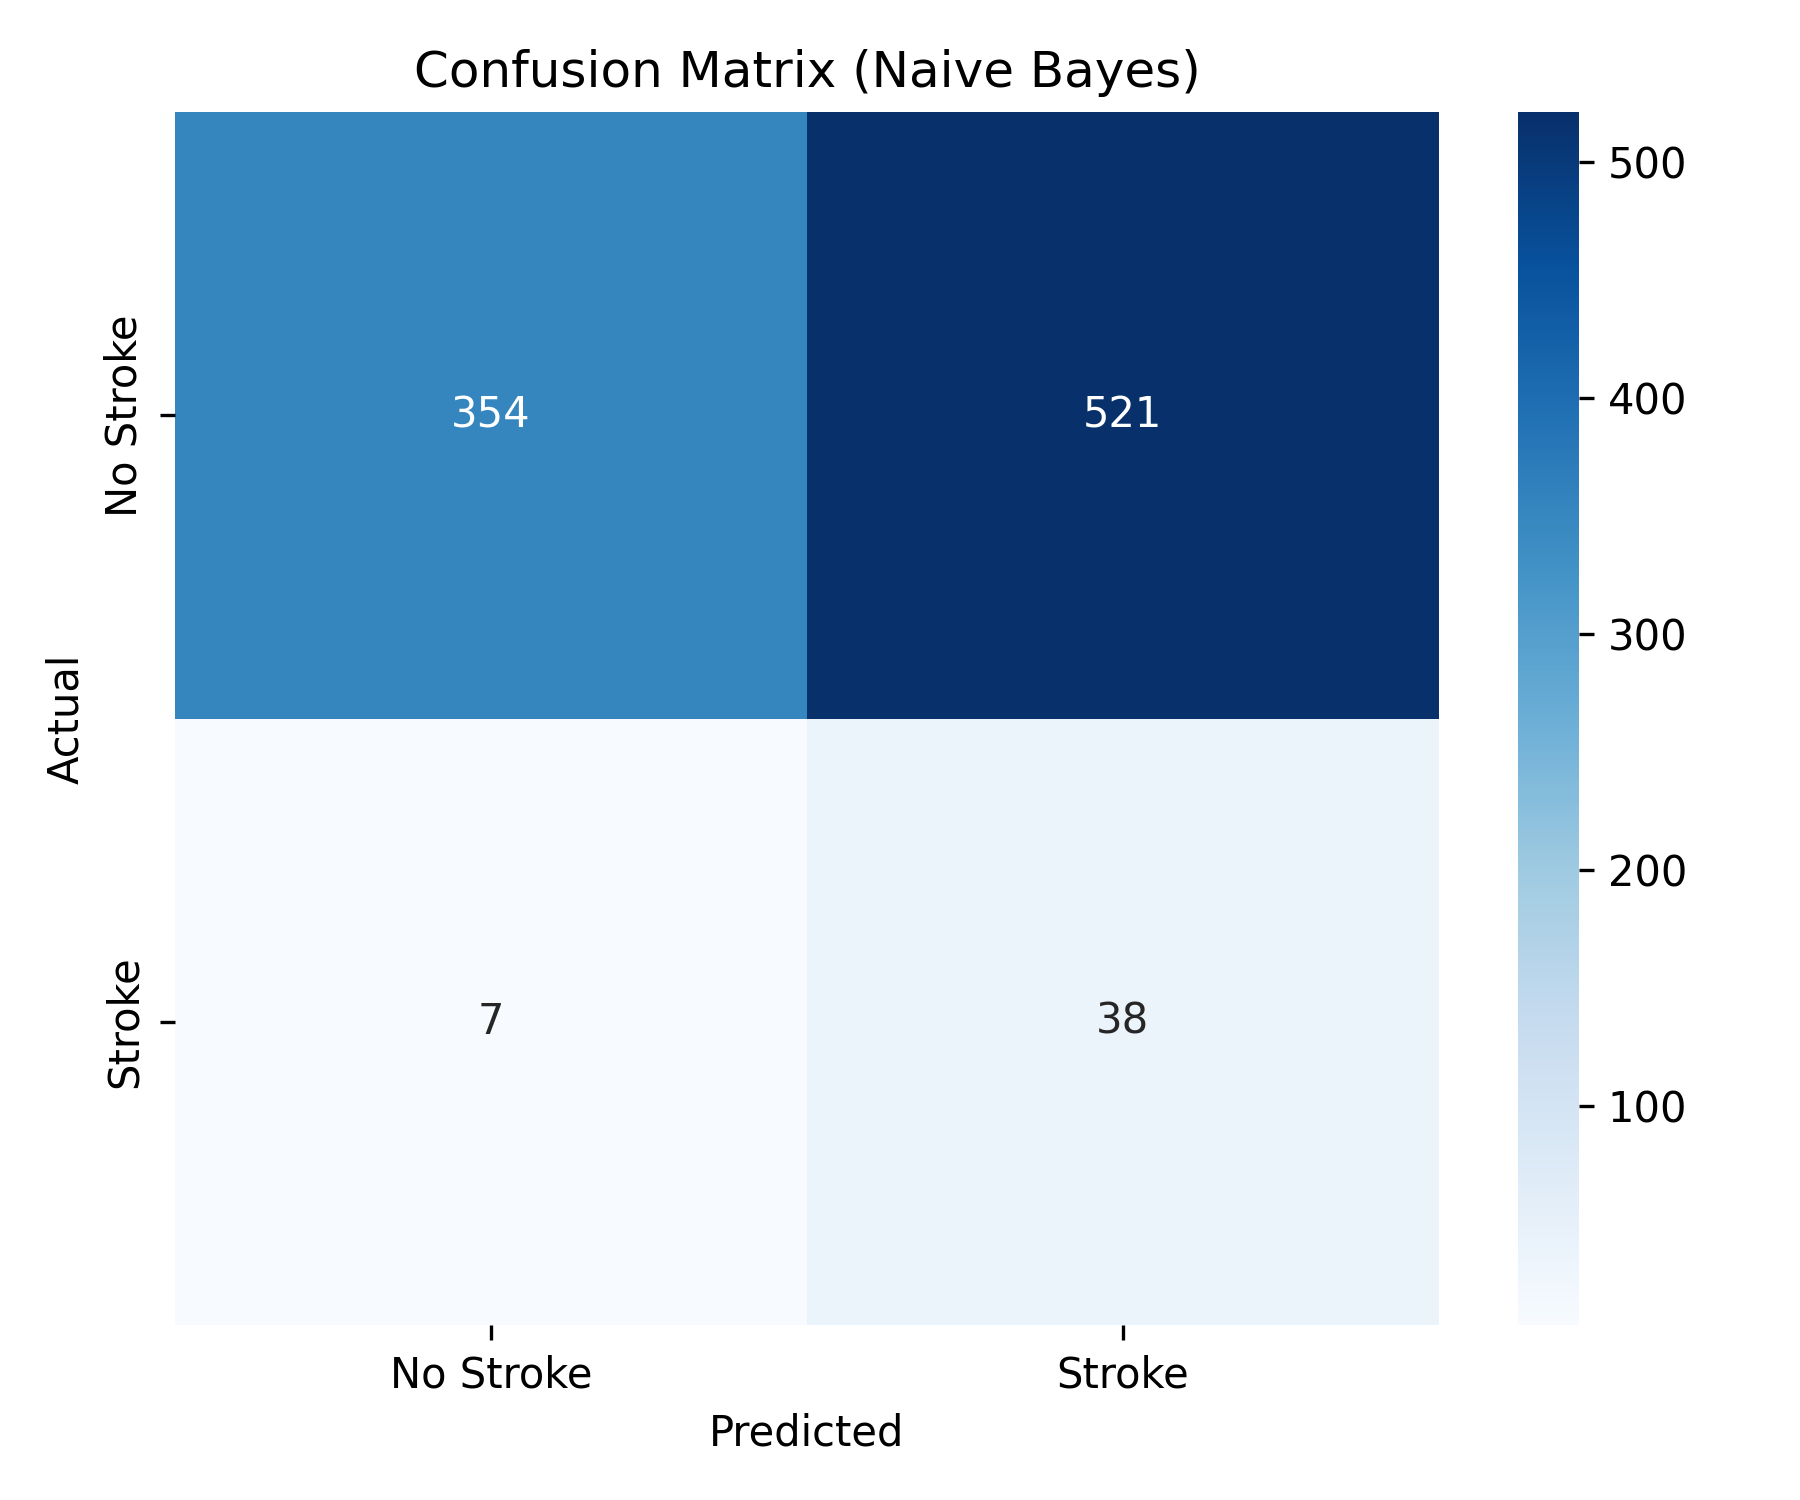
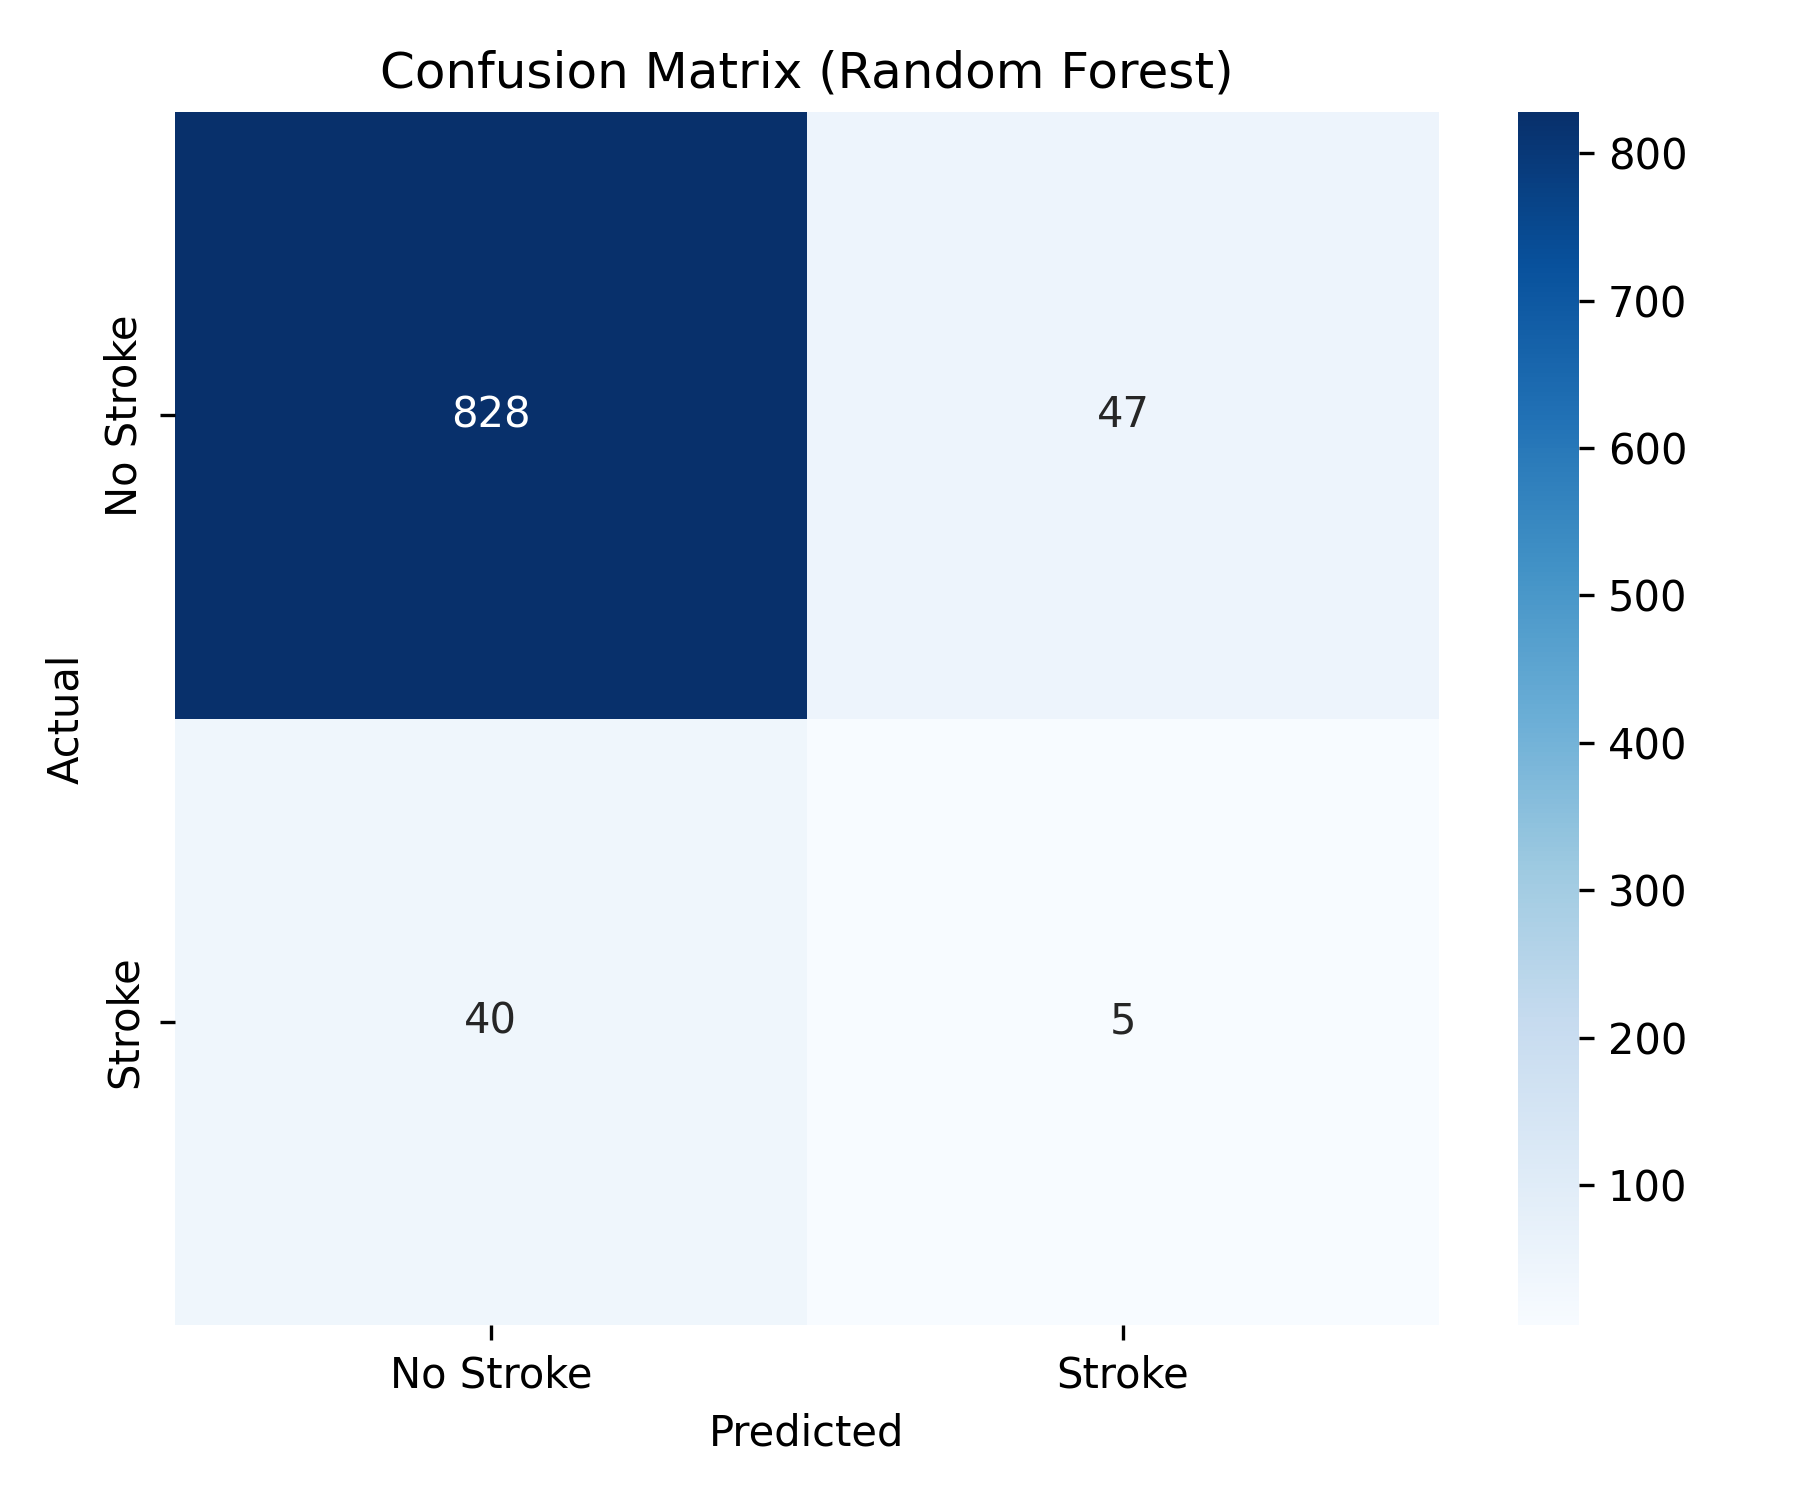
Added: comparison and evaluation for random_forest and decision tree in model_evaluator.py

diff --git a/notebooks/model_evaluator.py b/notebooks/model_evaluator.py
@@ -12,9 +12,6 @@
 # Identify the best-performing model
 # Save results to outputs/confusion_matrix.png
 # Save results to outputs/model_comparison.csv
-
-# Outputs:
-# outputs/naive_bayes_results.txt
 # # ======================================
 from pathlib import Path
 import pandas as pd
@@ -35,7 +32,9 @@ BASE_DIR = Path(__file__).resolve().parent.parent
 DATA_DIR = BASE_DIR / "data" / "processed"
 
 NB_RESULTS = BASE_DIR / "outputs" / "naive_bayes" / "naive_bayes_results.csv"
-SVM_RESULTS = BASE_DIR / "outputs" / "svm_results.txt"
+SVM_RESULTS = BASE_DIR / "outputs" /"support_vector_machine"/ "svm_results.csv"
+DT_RESULTS = BASE_DIR / "outputs" / "decision_tree" / "decision_tree_metrics.csv"
+RF_RESULTS = BASE_DIR / "outputs" / "random_forest" / "random_forest_metrics.csv"
 
 OUTPUTS_DIR = BASE_DIR / "outputs"
 OUTPUTS_DIR.mkdir(parents=True, exist_ok=True)
@@ -46,25 +45,35 @@ if not NB_RESULTS.exists():
 if not SVM_RESULTS.exists():
     raise FileNotFoundError(f"SVM results not found at {SVM_RESULTS}")
 
+if not DT_RESULTS.exists():
+    raise FileNotFoundError(f"Decision Tree results not found at {DT_RESULTS}")
+
+if not RF_RESULTS.exists():
+    raise FileNotFoundError(f"Random Forest results not found at {RF_RESULTS}")
 
 # ==============================
 # EXTRACT NAIVE BAYES METRICS
 # ==============================
 def extract_nb_metrics():
     df = pd.read_csv(NB_RESULTS)
+    print("NB Columns:", df.columns.tolist())
     df.columns = df.columns.str.strip()
+    print("NB Columns after strip:", df.columns.tolist())
     df["Metric"] = df["Metric"].str.strip().str.lower()
 
     def get_val(metric):
         row = df[df["Metric"] == metric]
-        return float(row["Test Set"].values[0]) if not row.empty else 0.0
 
+        if row.empty:
+            print(f"WARNING: metric '{metric}' not found. Available: {df['Metric'].tolist()}")
+            return 0.0
+        return float(row["Test_Set"].values[0])
     return {
         "model": "Naive Bayes",
         "accuracy": get_val("accuracy"),
         "precision": get_val("precision"),
         "recall": get_val("recall"),
-        "f1_score": get_val("f1"),
+        "f1_score": get_val("f1-score"),
     }
 
 
@@ -72,22 +81,73 @@ def extract_nb_metrics():
 # EXTRACT SVM METRICS
 # ==============================
 def extract_svm_metrics():
-    with open(SVM_RESULTS, "r") as f:
-        text = f.read()
+    df = pd.read_csv(SVM_RESULTS)
+    df.columns = df.columns.str.strip()
+    df["Metric"] = df["Metric"].str.strip().str.lower()
 
-    acc = float(re.search(r"Accuracy:\s+([\d.]+)", text).group(1))
-    precision = float(re.search(r"Precision:\s+([\d.]+)", text).group(1))
-    recall = float(re.search(r"Recall:\s+([\d.]+)", text).group(1))
-    f1 = float(re.search(r"F1-score:\s+([\d.]+)", text).group(1))
+    def get_val(metric):
+        row = df[df["Metric"] == metric]
+        return float(row["Test_Set"].values[0]) if not row.empty else 0.0
 
     return {
         "model": "SVM",
-        "accuracy": acc,
-        "precision": precision,
-        "recall": recall,
-        "f1_score": f1
+        "accuracy": get_val("accuracy"),
+        "precision": get_val("precision"),
+        "recall": get_val("recall"),
+        "f1_score": get_val("f1-score"),
     }
 
+# ==============================
+# EXTRACT DECISION TREE METRICS
+# ==============================
+def extract_dt_metrics():
+    df = pd.read_csv(DT_RESULTS)
+    df.columns = df.columns.str.strip().str.lower()
+    df["dataset_split"] = df["dataset_split"].str.strip().str.lower()
+
+    def get_val(split, metric):
+        row = df[df["dataset_split"] == split]
+        if row.empty:
+            print(f"WARNING: split '{split}' not found. Available: {df['dataset_split'].tolist()}")
+            return 0.0
+        if metric not in df.columns:
+            print(f"WARNING: metric '{metric}' not found. Available: {df.columns.tolist()}")
+            return 0.0
+        return float(row[metric].values[0])
+
+    return {
+        "model": "Decision Tree",
+        "accuracy": get_val("test", "accuracy"),
+        "precision": get_val("test", "precision"),
+        "recall": get_val("test", "recall"),
+        "f1_score": get_val("test", "f1_score"),
+    }
+
+# ==============================
+# EXTRACT RANDOM FOREST METRICS
+# ==============================
+def extract_rf_metrics():
+    df = pd.read_csv(RF_RESULTS)
+    df.columns = df.columns.str.strip().str.lower()
+    df["dataset_split"] = df["dataset_split"].str.strip().str.lower()
+
+    def get_val(split, metric):
+        row = df[df["dataset_split"] == split]
+        if row.empty:
+            print(f"WARNING: split '{split}' not found. Available: {df['dataset_split'].tolist()}")
+            return 0.0
+        if metric not in df.columns:
+            print(f"WARNING: metric '{metric}' not found. Available: {df.columns.tolist()}")
+            return 0.0
+        return float(row[metric].values[0])
+
+    return {
+        "model": "Random Forest",
+        "accuracy": get_val("test", "accuracy"),
+        "precision": get_val("test", "precision"),
+        "recall": get_val("test", "recall"),
+        "f1_score": get_val("test", "f1_score"),
+    }
 
 # ==============================
 # LOAD DATA (for confusion matrix)
@@ -106,18 +166,15 @@ def load_data():
 # RECREATE MODELS (for CM only)
 # ==============================
 def get_predictions(model_name, X_train, X_test, y_train):
-    if model_name == "Naive Bayes":
-        smote = SMOTE(random_state=42)
-        X_res, y_res = smote.fit_resample(X_train, y_train)
+    smote = SMOTE(random_state=42)
+    X_res, y_res = smote.fit_resample(X_train, y_train)
 
+    if model_name == "Naive Bayes":
         model = GaussianNB()
         model.fit(X_res, y_res)
         return model.predict(X_test)
 
     elif model_name == "SVM":
-        smote = SMOTE(random_state=42)
-        X_res, y_res = smote.fit_resample(X_train, y_train)
-
         scaler = StandardScaler()
         X_res_scaled = scaler.fit_transform(X_res)
         X_test_scaled = scaler.transform(X_test)
@@ -125,6 +182,23 @@ def get_predictions(model_name, X_train, X_test, y_train):
         model = SVC(probability=True, random_state=42)
         model.fit(X_res_scaled, y_res)
         return model.predict(X_test_scaled)
+
+    elif model_name == "Random Forest":
+        from sklearn.ensemble import RandomForestClassifier
+
+        model = RandomForestClassifier(random_state=42)
+        model.fit(X_res, y_res)
+        return model.predict(X_test)
+
+    elif model_name == "Decision Tree":
+        from sklearn.tree import DecisionTreeClassifier
+
+        model = DecisionTreeClassifier(random_state=42)
+        model.fit(X_res, y_res)
+        return model.predict(X_test)
+
+    else:
+        raise ValueError(f"Unknown model name: '{model_name}'. Check that it matches exactly.")
 
 
 # ==============================
@@ -157,8 +231,10 @@ def save_confusion_matrix(y_true, y_pred, model_name):
 def main():
     nb = extract_nb_metrics()
     svm = extract_svm_metrics()
+    dt = extract_dt_metrics()
+    rf = extract_rf_metrics()
 
-    df = pd.DataFrame([nb, svm])
+    df = pd.DataFrame([nb, svm, dt, rf])
 
     # Save comparison
     df.to_csv(OUTPUTS_DIR / "model_comparison.csv", index=False)
@@ -184,6 +260,8 @@ def main():
 
     print("NB:", nb)
     print("SVM:", svm)
+    print("DT:", dt)
+    print("RF:", rf)
 
 if __name__ == "__main__":
     main()
